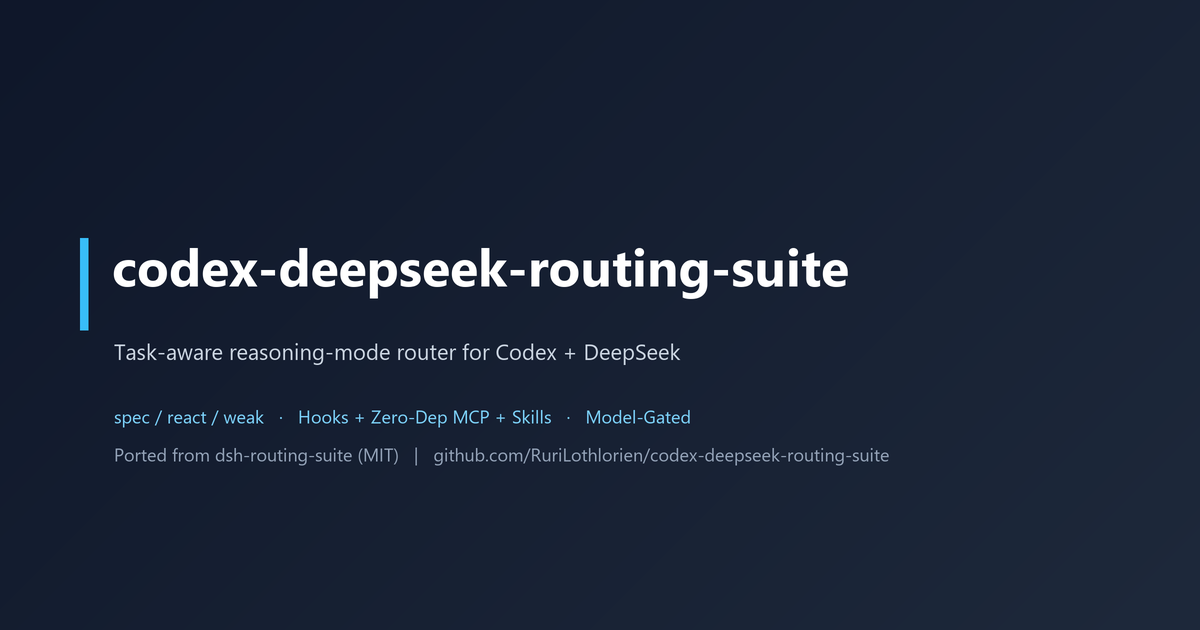
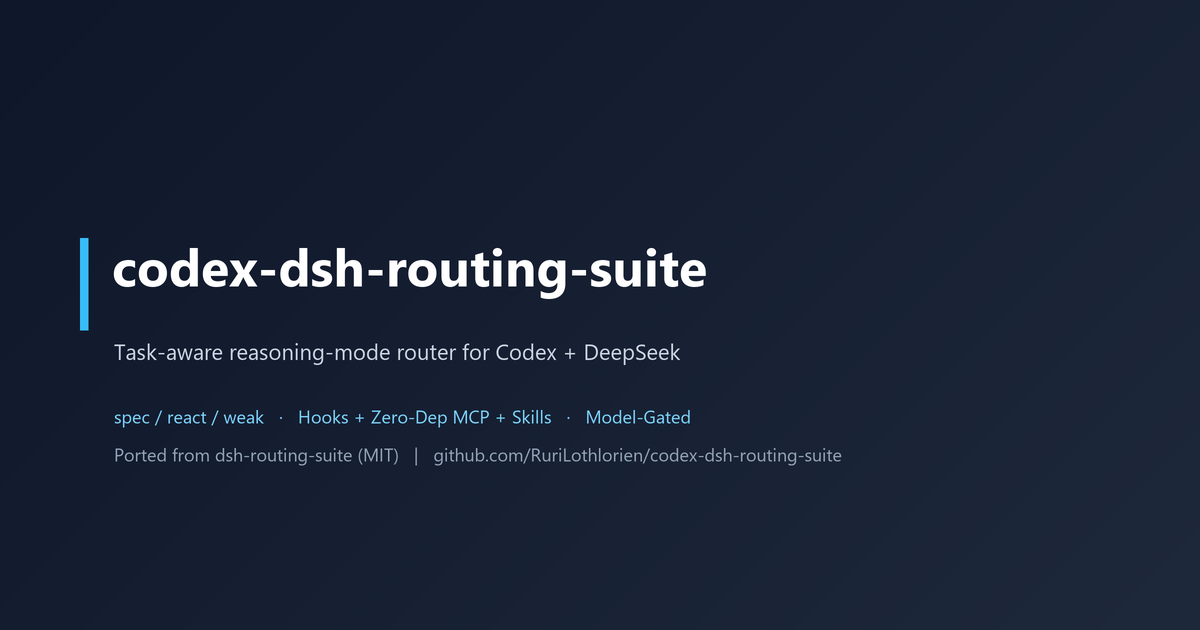
refactor: rename suite to codex-dsh-routing-suite

Changed region(s): [[0.2467, 0.3921, 0.7092, 0.4825], [0.5858, 0.6937, 0.74, 0.754]]

diff --git a/skills/codex-dsh-routing-suite/SKILL.md b/skills/codex-dsh-routing-suite/SKILL.md
@@ -1,11 +1,11 @@
 ---
-name: codex-deepseek-routing-suite
+name: codex-dsh-routing-suite
 description: 思维模式路由套件（dsh-routing-suite 的 Codex 移植版）操作手册。当任务涉及 路由/思维模式/路由器/dev_router/router/首轮锚定，或需要查看或切换当前会话的 spec/react/weak 模式、用不同模式派生一次性子进程、运行路由自检时使用。
 ---
 
-# codex-deepseek-routing-suite 操作手册
+# codex-dsh-routing-suite 操作手册
 
-安装 codex-deepseek-routing-suite 后，Codex 环境具备任务感知思维模式路由（移植自 DSH 生态 dsh-routing-suite）。它按首条用户消息分类会话模式，在每轮注入对应 persona 与引导，并在首次核心工具调用前对工具面做硬锚定。
+安装 codex-dsh-routing-suite 后，Codex 环境具备任务感知思维模式路由（移植自 DSH 生态 dsh-routing-suite）。它按首条用户消息分类会话模式，在每轮注入对应 persona 与引导，并在首次核心工具调用前对工具面做硬锚定。
 
 ## 1. 模式与分类
 
@@ -32,18 +32,18 @@ description: 思维模式路由套件（dsh-routing-suite 的 Codex 移植版）
 
 1. `dev_router_status` 看当前路由；
 2. 若分类与任务不符，`dev_router_mode` 显式覆盖（下轮生效，代价是一次前缀缓存 miss）；
-3. 改 `~/.codex/codex-deepseek-routing-suite/config.json`（`routerMode` / `anchoring` / `specExtraTools` / `reactExtraTools`）即时生效（钩子每次读文件）。
+3. 改 `~/.codex/codex-dsh-routing-suite/config.json`（`routerMode` / `anchoring` / `specExtraTools` / `reactExtraTools`）即时生效（钩子每次读文件）。
 
 ## 5. 故障排查
 
 - 钩子不生效：确认已重启 Codex、并已信任两个钩子（CLI `codex /hooks` 或桌面端信任提示）。
 - 计划模式下的 persona/锚定是 DSH 原始行为（plan 段由宿主保留，路由器照常工作），不是故障；如想临时关闭锚定，设 `config.json` 的 `anchoring=false`。
 - 工具被误拒：首轮锚定中，先调 `exec_command` 或 `apply_patch`；或临时设 `anchoring=false`。
-- 注入文本没出现：确认 `~/.codex/codex-deepseek-routing-suite/config.json` 存在、hooks 配置块在 `~/.codex/config.toml` 中未被覆盖（若使用 CC Switch 管理配置，切换供应商后需按 [CCSwitch-operations](https://github.com/RuriLothlorien/CCSwitch-operations) 技能重新同步，可选）。
-- 卸载：运行仓库内 `uninstall.ps1`（会移除 config.toml 中的 codex-deepseek-routing-suite 块并保留备份）。
+- 注入文本没出现：确认 `~/.codex/codex-dsh-routing-suite/config.json` 存在、hooks 配置块在 `~/.codex/config.toml` 中未被覆盖（若使用 CC Switch 管理配置，切换供应商后需按 [CCSwitch-operations](https://github.com/RuriLothlorien/CCSwitch-operations) 技能重新同步，可选）。
+- 卸载：运行仓库内 `uninstall.ps1`（会移除 config.toml 中的 codex-dsh-routing-suite 块并保留备份）。
 
 ## 6. 参考
 
 - `references/personas.md`：persona 原文与实测依据（P23/P24/P30）。
-- [docs/architecture.md](https://github.com/RuriLothlorien/codex-deepseek-routing-suite/blob/main/docs/architecture.md)：机制映射、接口契约与模型适配说明。
+- [docs/architecture.md](https://github.com/RuriLothlorien/codex-dsh-routing-suite/blob/main/docs/architecture.md)：机制映射、接口契约与模型适配说明。
 - 原项目：https://github.com/yjh051108/dsh-routing-suite（MIT）。

diff --git a/README.en.md b/README.en.md
@@ -1,8 +1,8 @@
-# codex-deepseek-routing-suite
+# codex-dsh-routing-suite
 
-![License](https://img.shields.io/github/license/RuriLothlorien/codex-deepseek-routing-suite)
-![Release](https://img.shields.io/github/v/release/RuriLothlorien/codex-deepseek-routing-suite)
-![Stars](https://img.shields.io/github/stars/RuriLothlorien/codex-deepseek-routing-suite?style=social)
+![License](https://img.shields.io/github/license/RuriLothlorien/codex-dsh-routing-suite)
+![Release](https://img.shields.io/github/v/release/RuriLothlorien/codex-dsh-routing-suite)
+![Stars](https://img.shields.io/github/stars/RuriLothlorien/codex-dsh-routing-suite?style=social)
 
 > English | [中文](README.md)
 
@@ -46,13 +46,13 @@ This suite turns those measurements into defaults for Codex + DeepSeek: band-bas
 
 - `UserPromptSubmit` hook: records the first user message, classifies the session, and returns persona + guidance (`additionalContext`) per turn.
 - `PreToolUse` hook: only core tools pass before the first tool call, then `promoted=true` unlocks the full catalog.
-- Session state is persisted under `~/.codex/codex-deepseek-routing-suite/state/`, so resume/continuation does not lose it.
+- Session state is persisted under `~/.codex/codex-dsh-routing-suite/state/`, so resume/continuation does not lose it.
 - The MCP server reads/writes the same state: view or switch modes, run self-tests, and spawn isolated subprocesses.
 
 ### Security analysis
 
 - Fully local: hooks and the MCP server are zero-dependency local Node scripts; routing itself (classification, injection, anchoring, state) makes no network requests and sends no telemetry.
-- Data boundaries: state is written only under `~/.codex/codex-deepseek-routing-suite/state/` (session id, first message text, mode/complexity/promotion); no keys or tokens are read or stored.
+- Data boundaries: state is written only under `~/.codex/codex-dsh-routing-suite/state/` (session id, first message text, mode/complexity/promotion); no keys or tokens are read or stored.
 - Least privilege: `UserPromptSubmit` only returns injected text; `PreToolUse` only returns allow/deny decisions and never executes commands for you; `model_instructions_file` points to a read-only Markdown file.
 - Auditable and reversible: behavior can be reviewed in session transcripts; `config.json` and state files are human-inspectable; `uninstall.mjs` / `uninstall.sh` / `uninstall.ps1` remove the config markers, runtime, skill, and agents.
 - Trust chain: the two hooks only run after you explicitly trust them (`codex /hooks` or the desktop prompt); all install/hook code is open source and reviewable.
@@ -62,10 +62,10 @@ This suite turns those measurements into defaults for Codex + DeepSeek: band-bas
 ## Repository structure
 
 ```text
-codex-deepseek-routing-suite/
+codex-dsh-routing-suite/
 ├─ hooks/                  # UserPromptSubmit + PreToolUse hooks
 ├─ mcp/server.mjs          # zero-dependency MCP server (dev_router_*)
-├─ skills/codex-deepseek-routing-suite/      # skill manual and persona references
+├─ skills/codex-dsh-routing-suite/      # skill manual and persona references
 ├─ agents/                 # optional native agents (router_*)
 ├─ instructions/base.md    # base instructions for persona replacement
 ├─ test/                   # 39 tests in the repo (38 in-session self-test)

diff --git a/README.md b/README.md
@@ -1,8 +1,8 @@
-# codex-deepseek-routing-suite
+# codex-dsh-routing-suite
 
-![License](https://img.shields.io/github/license/RuriLothlorien/codex-deepseek-routing-suite)
-![Release](https://img.shields.io/github/v/release/RuriLothlorien/codex-deepseek-routing-suite)
-![Stars](https://img.shields.io/github/stars/RuriLothlorien/codex-deepseek-routing-suite?style=social)
+![License](https://img.shields.io/github/license/RuriLothlorien/codex-dsh-routing-suite)
+![Release](https://img.shields.io/github/v/release/RuriLothlorien/codex-dsh-routing-suite)
+![Stars](https://img.shields.io/github/stars/RuriLothlorien/codex-dsh-routing-suite?style=social)
 
 > [English](README.en.md) | 中文
 
@@ -52,13 +52,13 @@
 
 - `UserPromptSubmit` 钩子：记录首条用户消息并分类，按轮返回 persona + 引导（`additionalContext`）。
 - `PreToolUse` 钩子：首轮仅放行核心工具，首个核心调用后置 `promoted=true` 并全量放开。
-- 会话状态落盘于 `~/.codex/codex-deepseek-routing-suite/state/`，resume/续接不丢。
+- 会话状态落盘于 `~/.codex/codex-dsh-routing-suite/state/`，resume/续接不丢。
 - MCP 服务器读写同一状态，支持查看/切换模式、运行自检、派生隔离子进程。
 
 ### 安全性分析
 
 - **全本地运行**：钩子与 MCP 服务器均为本机零依赖 Node 脚本；日常路由（分类、注入、锚定、状态读写）不产生任何网络请求或遥测。
-- **数据边界**：状态仅写入 `~/.codex/codex-deepseek-routing-suite/state/`（会话 id、首条消息文本、模式/复杂度/提升状态）；不读取、不保存密钥或令牌。
+- **数据边界**：状态仅写入 `~/.codex/codex-dsh-routing-suite/state/`（会话 id、首条消息文本、模式/复杂度/提升状态）；不读取、不保存密钥或令牌。
 - **权限最小化**：`UserPromptSubmit` 只返回注入文本；`PreToolUse` 只返回放行/拒绝决策，不代替你执行任何命令；`model_instructions_file` 仅指向一个只读 Markdown 文件。
 - **可审计、可回滚**：所有行为可在会话记录中复核；`config.json` 与状态文件可人工检查；`uninstall.mjs` / `uninstall.sh` / `uninstall.ps1` 会移除 config.toml 标记块、运行时、技能与 agents，完整还原。
 - **信任链**：两个钩子需你在 `codex /hooks` 或桌面端显式信任后才生效；安装脚本与钩子源码全部开源，安装前可审阅。
@@ -68,10 +68,10 @@
 ## 仓库结构
 
 ```text
-codex-deepseek-routing-suite/
+codex-dsh-routing-suite/
 ├─ hooks/                  # UserPromptSubmit + PreToolUse 钩子
 ├─ mcp/server.mjs          # 零依赖 MCP 服务器（dev_router_*）
-├─ skills/codex-deepseek-routing-suite/      # 技能手册与 persona 参考
+├─ skills/codex-dsh-routing-suite/      # 技能手册与 persona 参考
 ├─ agents/                 # 可选原生 agents（router_*）
 ├─ instructions/base.md    # 主会话 persona 替换基础指令
 ├─ test/                   # 仓库 39 例（会话内自检 38 例）

diff --git a/docs/architecture.md b/docs/architecture.md
@@ -8,7 +8,7 @@
 |---|---|
 | system-prompt/assemble 注入 persona | `UserPromptSubmit` 钩子输出 `additionalContext` |
 | 首轮工具面裁剪 | `PreToolUse` 钩子 `permissionDecision: deny` |
-| 会话持久状态 | `~/.codex/codex-deepseek-routing-suite/state/<session>.json` |
+| 会话持久状态 | `~/.codex/codex-dsh-routing-suite/state/<session>.json` |
 | `dev_router_status` / `dev_router_mode` | MCP stdio 工具 |
 | `dev_mode_subagent`（llm.stream 隔离） | 一次性 `codex exec` 子进程（默认）或原生 `router_*` agents（可选） |
 | `dev_self_test` | MCP `dev_router_test` + `node --test` |
@@ -18,9 +18,9 @@
 - `hooks/router-user-prompt.mjs`：记录首条用户消息与复杂度；按 override 或分类得到 mode（spec/react/weak）；返回 persona + 引导（plan 模式下与 DSH 一致，照常注入）。
 - `hooks/router-pre-tool.mjs`：未 promoted 前仅放行核心工具（`bash`/`apply_patch` + 按 band 的额外 MCP 前缀），首个核心调用后置 `promoted=true`。
 - `mcp/server.mjs`：零依赖 MCP 服务器，提供 `dev_router_status` / `dev_router_mode` / `dev_router_test` / `dev_mode_subagent`。
-- 状态：`~/.codex/codex-deepseek-routing-suite/state/<session>.json` + `latest/<cwd>.json`；配置 `~/.codex/codex-deepseek-routing-suite/config.json`。
+- 状态：`~/.codex/codex-dsh-routing-suite/state/<session>.json` + `latest/<cwd>.json`；配置 `~/.codex/codex-dsh-routing-suite/config.json`。
 
-## 3. 配置契约（`~/.codex/codex-deepseek-routing-suite/config.json`）
+## 3. 配置契约（`~/.codex/codex-dsh-routing-suite/config.json`）
 
 ```json
 {
@@ -73,7 +73,7 @@
 ## 9. 安全与隐私
 
 - 全本地运行：钩子与 MCP 服务器为本机零依赖 Node 脚本；路由（分类、注入、锚定、状态读写）不产生网络请求或遥测。
-- 数据边界：状态仅写入 `~/.codex/codex-deepseek-routing-suite/state/`（会话 id、首条消息文本、模式/复杂度/提升状态）；不读取、不保存密钥或令牌。
+- 数据边界：状态仅写入 `~/.codex/codex-dsh-routing-suite/state/`（会话 id、首条消息文本、模式/复杂度/提升状态）；不读取、不保存密钥或令牌。
 - 权限最小化：`UserPromptSubmit` 只返回注入文本；`PreToolUse` 只返回放行/拒绝决策；`model_instructions_file` 指向只读 Markdown。
 - 可审计、可回滚：行为可在会话记录复核；`config.json` 与状态文件可人工检查；卸载脚本完整移除配置标记、运行时、技能与 agents。
 - 信任链：两个钩子需显式信任（`codex /hooks` 或桌面端）后才生效；源码开源可审阅。

diff --git a/instructions/base.md b/instructions/base.md
@@ -1,6 +1,6 @@
 You are a helpful software engineer assistant.
 
-This session is managed by codex-deepseek-routing-suite.
+This session is managed by codex-dsh-routing-suite.
 - Per-turn persona and reasoning guidance are appended as developer context by the router hook. Follow that text as the current session identity and behavior guidance, overriding any identity description above it.
 - Classify each task as build (react, hands-on production) or fix (spec, inspect-and-plan) when the appended guidance asks; ambiguous tasks follow the weak internal-routing guidance.
 - The first turn is anchored: only shell (Bash / exec_command) and apply_patch are available until the first core tool call, then the full catalog unlocks. A denied tool call is the anchoring signal - switch to a core tool instead.

diff --git a/CHANGELOG.md b/CHANGELOG.md
@@ -1,5 +1,9 @@
 # Changelog
 
+## Unreleased
+
+- 全局改名 `codex-dsh-routing-suite`：技能、运行时目录、config.toml 标记、MCP 服务器名与 persona 身份统一为新名；安装器自动从上一版 `codex-deepseek-routing-suite` 布局迁移（保留会话状态），并继续兼容更早的 `dsh-router` 布局清理；README/文档/发布元数据同步。
+
 ## 0.1.4 (2026-08-23)
 
 - 全套件命名对齐：技能、运行时目录、config.toml 标记、MCP 服务器名与 persona 身份统一为 `codex-deepseek-routing-suite`（旧 `dsh-router` 布局由安装器自动迁移：旧运行时目录改名保留状态、旧技能目录移除、旧标记块清理）；上游 `dsh-routing-suite` / `dsh-router-standard` 署名与 `dev_router_*` 工具名保持不变。
